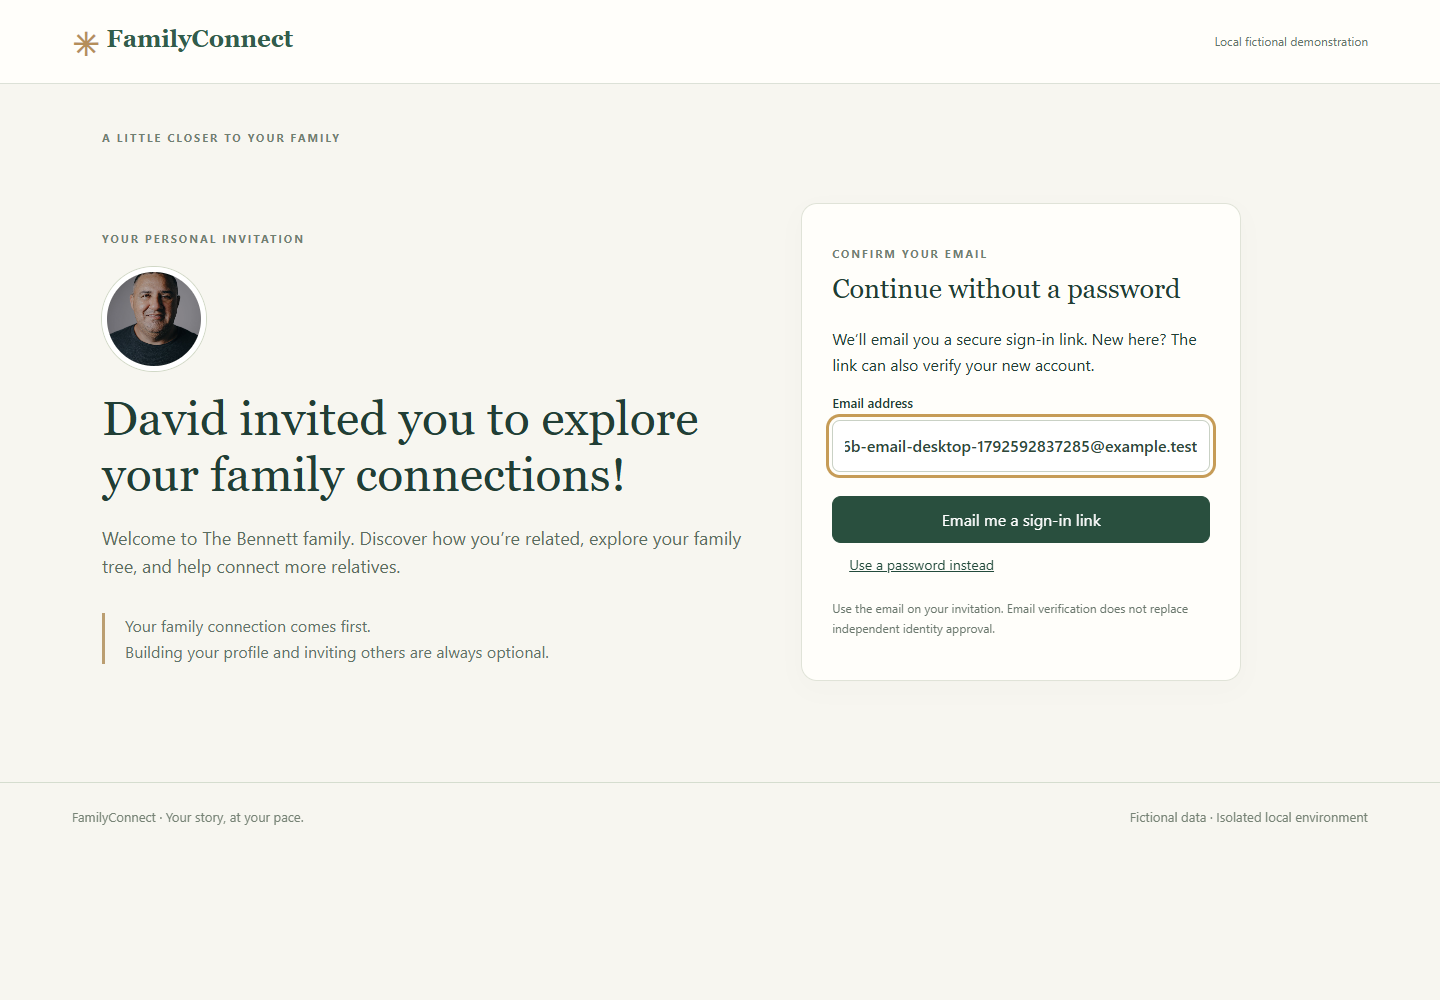
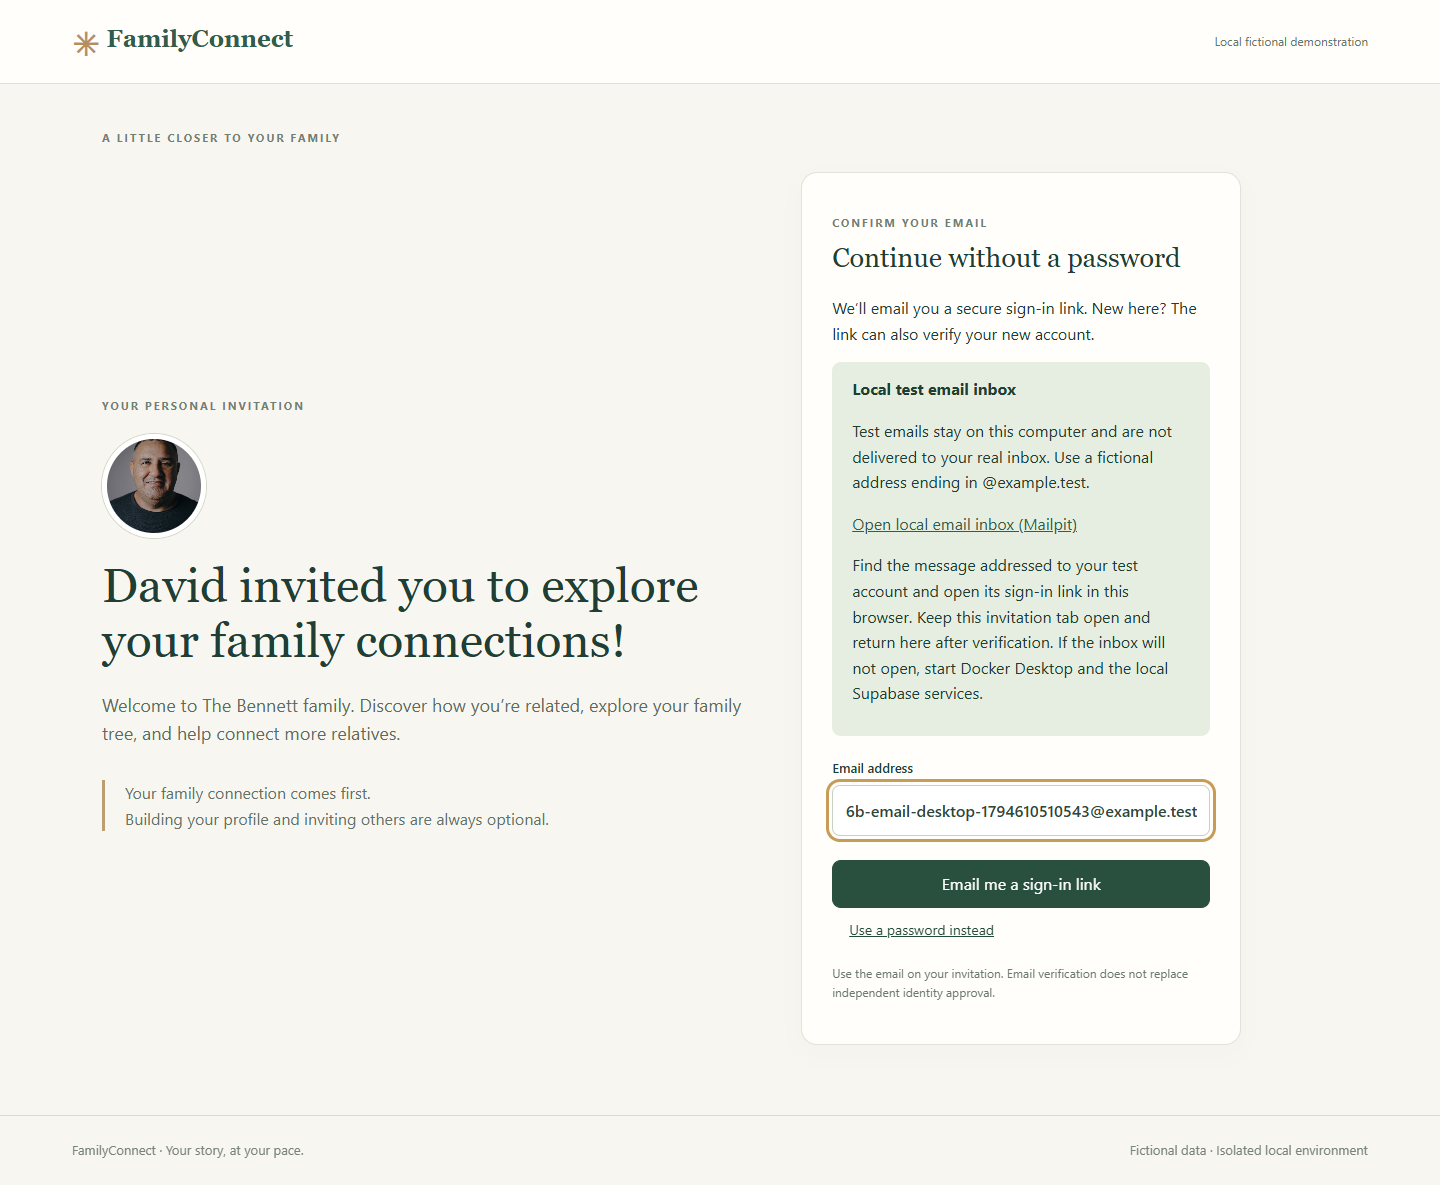
Nov 13 2026a

diff --git a/src/phase6/EmailLinkAuth.jsx b/src/phase6/EmailLinkAuth.jsx
@@ -1,11 +1,14 @@
 import React,{useState,useEffect} from 'react';
 import {db} from './client';
+import {demoEnabled} from './runtime.mjs';
+const cooldownKey='familyconnect-email-request-after';
+const remaining=()=>{try{return Math.max(0,Math.min(60,Math.ceil((Number(sessionStorage.getItem(cooldownKey)||0)-Date.now())/1000)))}catch{return 0}};
 export function EmailLinkAuth({onBack}){
- const [email,setEmail]=useState(''),[busy,setBusy]=useState(false),[sent,setSent]=useState(false),[error,setError]=useState(''),[cooldown,setCooldown]=useState(0);
+ const [email,setEmail]=useState(''),[busy,setBusy]=useState(false),[sent,setSent]=useState(false),[error,setError]=useState(''),[cooldown,setCooldown]=useState(remaining);
  useEffect(()=>{if(!cooldown)return;const timer=setTimeout(()=>setCooldown(c=>c-1),1000);return()=>clearTimeout(timer)},[cooldown]);
  const submit=async e=>{e.preventDefault();if(busy||cooldown)return;setBusy(true);setError('');try{
   const {error}=await db.auth.signInWithOtp({email:email.trim(),options:{shouldCreateUser:true,emailRedirectTo:location.origin+'/phase6.html'}});
-  if(error)throw error;setSent(true);setCooldown(60);
- }catch{setError('We couldn’t request a link. Check your email address and try again shortly.')}finally{setBusy(false)}};
- return <form className="card auth" onSubmit={submit}><p className="step">CONFIRM YOUR EMAIL</p><h2>Continue without a password</h2><p>We’ll email you a secure sign-in link. New here? The link can also verify your new account.</p><label>Email address<input type="email" autoComplete="email" required value={email} onChange={e=>{setEmail(e.target.value);setSent(false)}}/></label><button className="primary" disabled={busy||cooldown>0}>{busy?'Requesting link…':cooldown?`Request again in ${cooldown}s`:'Email me a sign-in link'}</button>{sent&&<p role="status">Check your email inbox. Open the sign-in link in this tab, or return to this invitation tab after verifying. No family profile is claimed until you confirm your invitation.</p>}{error&&<p role="alert">{error}</p>}<button type="button" className="text" onClick={onBack}>Use a password instead</button><p className="small">Use the email on your invitation. Email verification does not replace independent identity approval.</p></form>;
+  if(error)throw error;setSent(true);setCooldown(60);try{sessionStorage.setItem(cooldownKey,String(Date.now()+60000))}catch{}
+ }catch(error){if(error?.status===429){setCooldown(60);try{sessionStorage.setItem(cooldownKey,String(Date.now()+60000))}catch{}setError('Too many email requests. Please wait a minute before trying again.')}else setError('We couldn’t request a link. Check your email address and try again shortly.')}finally{setBusy(false)}};
+ return <form className="card auth" onSubmit={submit}><p className="step">CONFIRM YOUR EMAIL</p><h2>Continue without a password</h2><p>We’ll email you a secure sign-in link. New here? The link can also verify your new account.</p>{demoEnabled&&<aside className="notice"><strong>Local test email inbox</strong><p>Test emails stay on this computer and are not delivered to your real inbox. Use a fictional address ending in @example.test.</p><a href="http://127.0.0.1:55324" target="_blank" rel="noreferrer">Open local email inbox (Mailpit)</a><p>Find the message addressed to your test account and open its sign-in link in this browser. Keep this invitation tab open and return here after verification. If the inbox will not open, start Docker Desktop and the local Supabase services.</p></aside>}<label>Email address<input type="email" autoComplete="email" required value={email} onChange={e=>{setEmail(e.target.value);setSent(false)}}/></label><button className="primary" disabled={busy||cooldown>0}>{busy?'Requesting link…':cooldown?`Request again in ${cooldown}s`:'Email me a sign-in link'}</button>{sent&&<p role="status">{demoEnabled?'Check your local email inbox (Mailpit), not your real inbox.':'Check your email inbox.'} Open the sign-in link in this tab, or return to this invitation tab after verifying. No family profile is claimed until you confirm your invitation.</p>}{error&&<p role="alert">{error}</p>}<button type="button" className="text" onClick={onBack}>Use a password instead</button><p className="small">Use the email on your invitation. Email verification does not replace independent identity approval.</p></form>;
 }

diff --git a/src/phase6/Social.jsx b/src/phase6/Social.jsx
@@ -4,9 +4,10 @@ import {demoEnabled} from './runtime.mjs';
 import './social.css';
 const act=(action,payload={})=>rpc('fc_social',{action,payload});
 export function PrivatePhoto({path,alt='',className=''}){
- const [url,setUrl]=useState('');
- useEffect(()=>{let live=true,object='';setUrl('');if(path)db.storage.from('family-private').download(path).then(({data,error})=>{if(live&&!error){object=URL.createObjectURL(data);setUrl(object)}});return()=>{live=false;if(object)URL.revokeObjectURL(object)}},[path]);
- return url?<img className={className} src={url} alt={alt}/>:<span className={`photo-fallback ${className}`} aria-label={alt||'Photograph unavailable'}>{alt?.trim().split(/\s+/).slice(0,2).map(w=>w[0]).join('')||'○'}</span>;
+ const [url,setUrl]=useState(''),[visible,setVisible]=useState(false),element=useRef();
+ useEffect(()=>{if(!globalThis.IntersectionObserver){setVisible(true);return}const observer=new IntersectionObserver(entries=>{if(entries.some(e=>e.isIntersecting)){setVisible(true);observer.disconnect()}},{rootMargin:'250px'});if(element.current)observer.observe(element.current);return()=>observer.disconnect()},[path]);
+ useEffect(()=>{let live=true,object='';setUrl('');if(path&&visible)db.storage.from('family-private').download(path).then(({data,error})=>{if(live&&!error){object=URL.createObjectURL(data);setUrl(object)}});return()=>{live=false;if(object)URL.revokeObjectURL(object)}},[path,visible]);
+ return url?<img ref={element} className={className} src={url} alt={alt} decoding="async"/>:<span ref={element} className={`photo-fallback ${className}`} aria-label={alt||'Photograph unavailable'}>{alt?.trim().split(/\s+/).slice(0,2).map(w=>w[0]).join('')||'○'}</span>;
 }
 async function upload(file,target){
  if(file.size>8*1024*1024)throw Error('Choose a photograph under 8 MB.');

diff --git a/tmp/check-hosted-email.py b/tmp/check-hosted-email.py
@@ -1,0 +1,14 @@
+import ast,json,urllib.request
+from pathlib import Path
+from datetime import datetime,timezone
+source=ast.parse(Path('scripts/phase6-readonly-probe.py').read_text())
+parts=[n for n in source.body if isinstance(n,(ast.Import,ast.ImportFrom,ast.ClassDef,ast.FunctionDef))]
+ns={}
+exec(compile(ast.Module(body=parts,type_ignores=[]),'credential-helper','exec'),ns)
+req=urllib.request.Request('https://api.supabase.com/v1/projects/jmsntxwkaneluqgnzzim/config/auth',headers={'Authorization':'Bearer '+ns['token']()},method='GET')
+with urllib.request.urlopen(req,timeout=30) as r: data=json.load(r)
+result={'checkedAt':datetime.now(timezone.utc).isoformat(),'method':'GET config/auth only','custom_smtp_configured':bool(data.get('smtp_host'))}
+for k in ['site_url','uri_allow_list','smtp_port','mailer_autoconfirm','rate_limit_email_sent']:result[k]=data.get(k)
+Path('output/passwordless').mkdir(exist_ok=True)
+Path('output/passwordless/hosted-email-config.json').write_text(json.dumps(result,indent=2))
+print(json.dumps(result))
